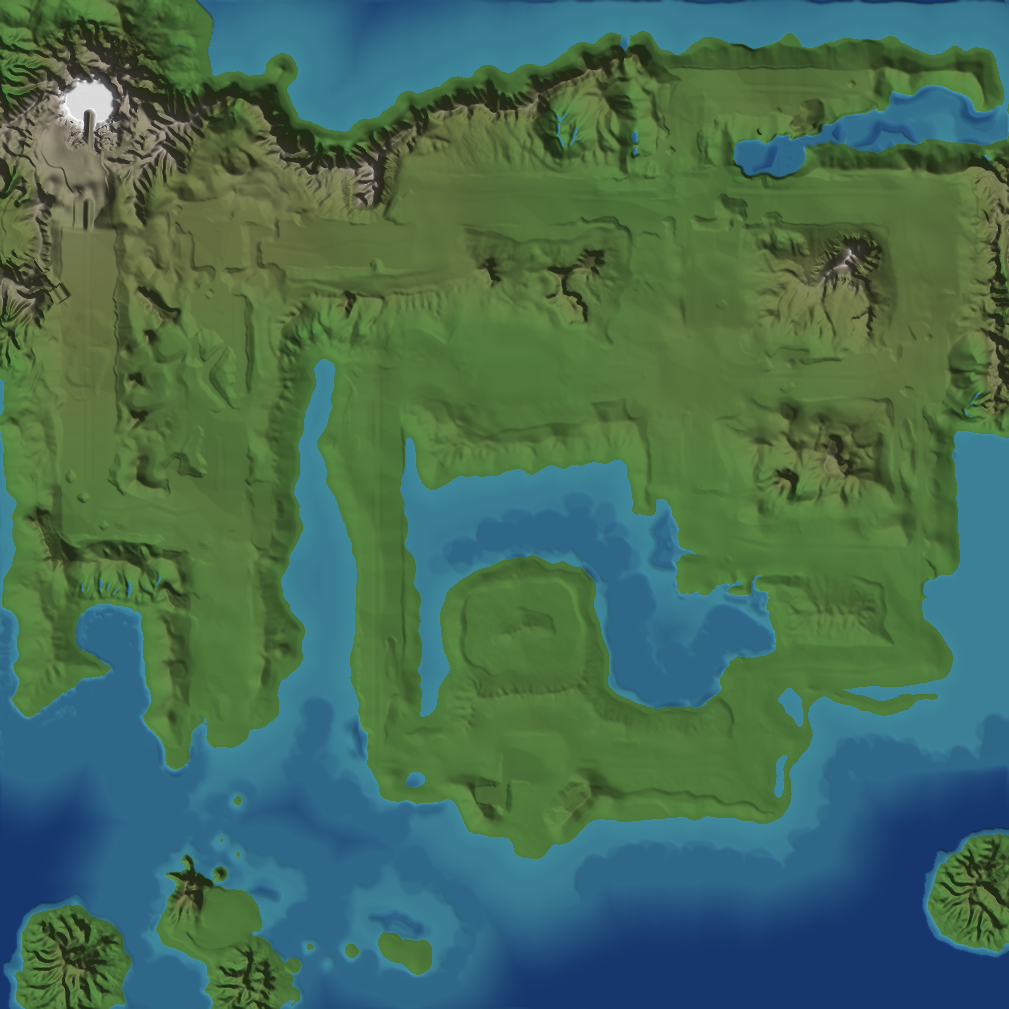
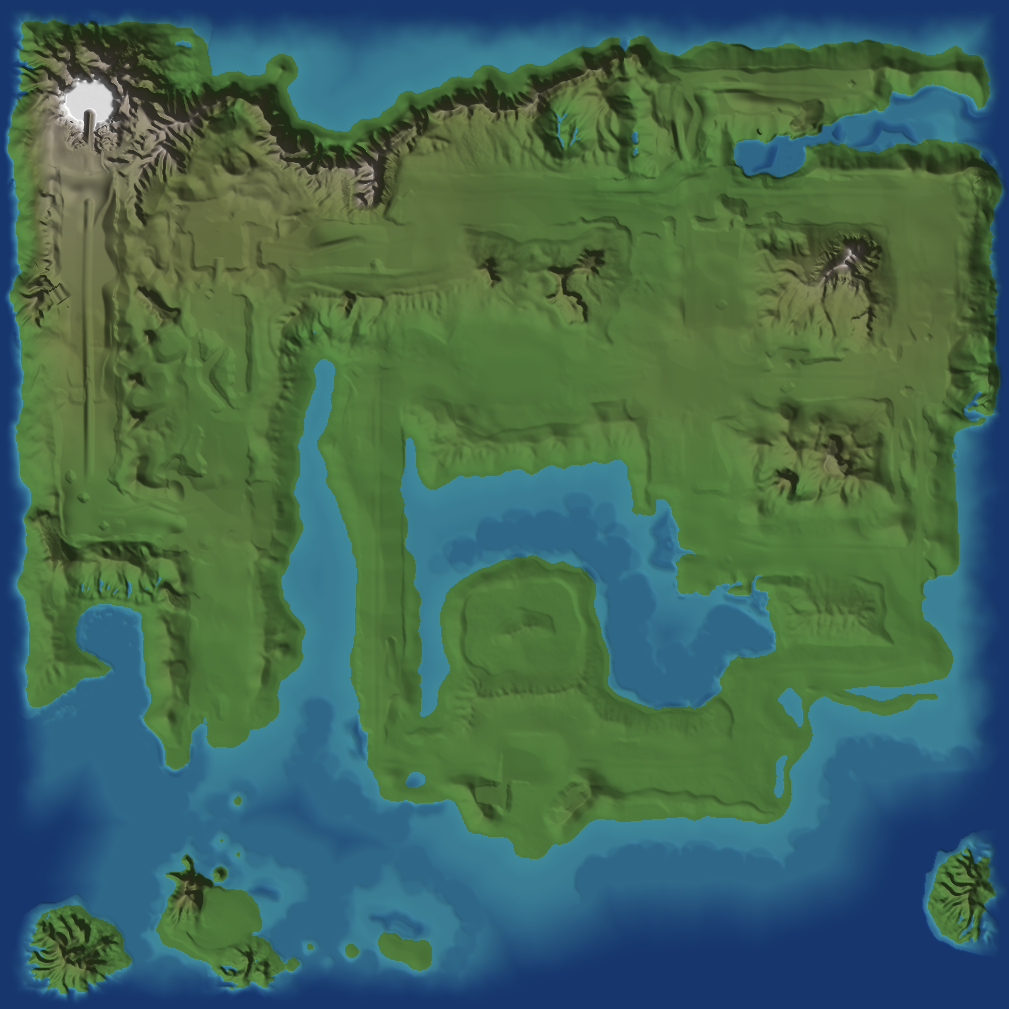
Relief v3 : bords de carte dans la mer, Route 23 en pente régulière (plus de bosses de 20 m+)
Claude-Session: https://claude.ai/code/session_018Va8hCn5RxmaGCyShth46S

diff --git a/Tools/Blockout/relief_vues.py b/Tools/Blockout/relief_vues.py
@@ -62,6 +62,8 @@ TOWN_FALLOFF = 90.0       # autour des villes, le terrain rejoint la ville en pe
 PATH_SMOOTH = 25.0        # lissage des chemins (pas de marches)
 PATH_MAX_SLOPE = 0.15     # pente maximale dans les routes (8,5°) : le personnage est petit
 PATH_EDGE = 60.0          # le bord des routes rejoint le relief sur cette distance
+PATH_MAX_CHANGE = 20.0    # les chemins ne sont jamais remontés ni creusés de plus de 20 m
+EDGE_SEA = 320.0          # au bord de la carte, la terre plonge dans la mer sur ~320 m
 EMBANK_SLOPE = 0.6        # bords de route (remblai ou déblai) : 31° en moyenne (de 17 à 42°)
 
 # Où mettre montagnes et forêts : la carte de L'amie (reference/kanto_relief_amie.png, 1009 × 1009,
@@ -514,8 +516,11 @@ def smooth_paths(height, inside, keep, wobble):
     zone = ndimage.binary_closing(zone, iterations=int(22 / STEP), border_value=1) & (keep < 0.5)
     rise = np.full(soft.shape, PATH_MAX_SLOPE * STEP)
     limited = (_cone(soft, zone, rise, True) + _cone(soft, zone, rise, False)) / 2
-    del soft
+    # Jamais plus de PATH_MAX_CHANGE m de remblai ou de déblai : une route trop raide pour 15 %
+    # (Route 23 vers le Plateau Indigo) reste en pente forte, sans être remontée d'un bloc.
+    limited = np.clip(limited, soft - PATH_MAX_CHANGE, soft + PATH_MAX_CHANGE)
     limited = ndimage.gaussian_filter(limited, 3.0 / STEP)
+    del soft
     weight = np.clip(ndimage.gaussian_filter(zone.astype(np.float32), PATH_EDGE / 2.5 / STEP) * 2.0, 0, 1)
     weight = np.maximum(weight, zone * 1.0) * (1 - keep)
     out = height + (limited - height) * weight
@@ -630,7 +635,7 @@ def main():
     mountains = ndimage.binary_dilation(mountains, iterations=4)
     wobble = np.clip(0.5 + 0.8 * fbm(x, y, 140, 3, SEED + 140), 0, 1)
     height = soften_talus(height, upsample(1.0 - mountains.astype(np.float64)), upsample(wobble))
-    height = smooth_paths(height, upsample(signed), upsample(np.maximum(protected(x, y, 650), smoothstep(10, 40, peaks))),
+    height = smooth_paths(height, upsample(signed), upsample(np.maximum(protected(x, y), smoothstep(10, 40, peaks))),
                           upsample(wobble))
     del wobble
     if not TEST:
@@ -653,6 +658,11 @@ def main():
     height = height + (ndimage.gaussian_filter(height, 2.0) - height) * (d_out < 25)
     del dry, ground, depth_in, bed, d_out, target
     ground, lip = waterfall(height)
+    # Bords de la carte : la terre plonge dans la mer (plus de mur coupé net au bord du Landscape).
+    edge = np.minimum(np.minimum(x, y), np.minimum(SIZE * STEP - x, SIZE * STEP - y))
+    edge = upsample(smoothstep(40, EDGE_SEA, edge + fbm(x, y, 300, 3, SEED + 150) * 90))
+    height = np.where(height > -15, -15 + (height + 15) * edge, height)
+    del edge
     print(f"{len(lakes)} lacs ; cascade : bassin à {ground:.0f} m, lèvre à {lip:.0f} m")
     print("Villes : " + ", ".join(f"{n} {now[n]:.0f} m" + (f" -> {TOWN_LEVELS[n]:.0f} m" if n in TOWN_LEVELS else "")
                                   for n in now if n != "Forêt de Jade"))

diff --git a/docs/RELIEF_V3.md b/docs/RELIEF_V3.md
@@ -16,8 +16,8 @@ Il applique ensuite, dans l'ordre :
 5. **Montagnes** : celles de la carte de L'amie, plus celles qu'elle a entourées en rouge (`EXTRA_MOUNTAINS`), un volcan sur Cramois'Île, le Mont Argenté et des îles au loin. Rien ne dépasse le Plateau Indigo, une table plate à 640 m, le point le plus haut.
 6. **Érosion** : par la pluie, sur les nouveaux reliefs seulement.
 7. **Plus d'arêtes nettes** : hors des montagnes, les falaises sont couchées à 45° au plus (`CLIFF_SLOPE`) et leur rebord est arrondi à 24° (`TALUS_SLOPE`). La pente varie d'un endroit à l'autre, pour que les rebords ondulent au lieu de rester droits.
-8. **Chemins doux** : sur les routes, le relief est lissé puis limité à 15 % de pente (`PATH_MAX_SLOPE`). Le raccord avec le reste se fait sur 60 m, en courbe, et le bord de la route ondule. Les bandes étroites entre deux chemins sont lissées avec eux (plus de murets). Au bord des routes, le terrain monte ou descend en talus doux (31° en moyenne, `EMBANK_SLOPE`), jamais en marche. La Route 23 ne grimpe plus vers le Plateau Indigo (on y monte par la Route Victoire).
-9. **Eau** : une dizaine de lacs arrondis sont creusés, et l'eau creusée par L'amie devient un lit peu profond aux berges douces. La cascade de la Route 23 est creusée dans la falaise, avec un bassin au pied.
+8. **Chemins doux** : sur les routes, le relief est lissé puis limité à 15 % de pente (`PATH_MAX_SLOPE`). Le raccord avec le reste se fait sur 60 m, en courbe, et le bord de la route ondule. Les bandes étroites entre deux chemins sont lissées avec eux (plus de murets). Au bord des routes, le terrain monte ou descend en talus doux (31° en moyenne, `EMBANK_SLOPE`), jamais en marche. Une route n'est jamais remontée ni creusée de plus de 20 m (`PATH_MAX_CHANGE`) : la Route 23 monte vers le Plateau Indigo en pente régulière, sans bloc remonté d'un coup.
+9. **Eau** : une dizaine de lacs arrondis sont creusés, et l'eau creusée par L'amie devient un lit peu profond aux berges douces. La cascade de la Route 23 est creusée dans la falaise, avec un bassin au pied. Au bord de la carte, la terre plonge dans la mer sur ~320 m (`EDGE_SEA`) : plus de montagne coupée net au bord du Landscape.
 
 Les rebords à sauter (on saute d'un côté, on fait le tour de l'autre) ne sont **pas** dans le relief. Ce seront des objets (Blueprint) posés à la main.
 
